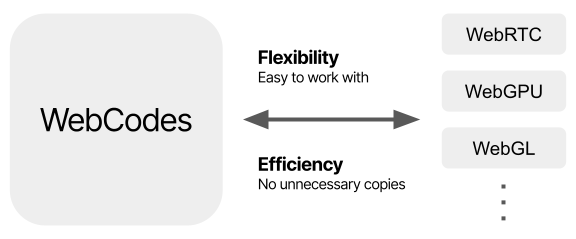
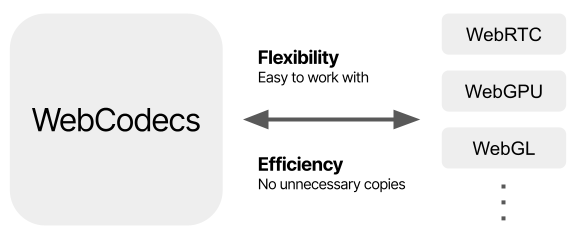
Update pictures and reword a little bit

Changed region(s): [[0.0312, 0.4393, 0.3438, 0.5565]]

diff --git a/_posts/2023-07-24-webcodecs-and-the-future-of-media-processing-on-the-web.md b/_posts/2023-07-24-webcodecs-and-the-future-of-media-processing-on-the-web.md
@@ -73,7 +73,7 @@ In the demo, *WebCodecs* decodes the data from the video file, and we adjust the
 
 Once we integrate *WebCodecs* with *WebGL* and *WebGPU*, or any other graphic APIs, the process can be accelerated by the graphics card, and we will get the images faster.
 
-Again, *WebCodecs* has an interface carrying the image in the video, called `VideoFrame`, that will soon become a processing unit in the *WebRTC* and *WebGL*. As a result, once *WebRTC* can stream the video coming from your camera **frame by frame**, we can easily send them to *WebGL* to process.
+Again, *WebCodecs* has an interface carrying the image in the video, called `VideoFrame`, that will soon become a processing unit in the *WebRTC* and *WebGL*. As a result, once *WebRTC* can stream the video coming from your camera **in VideoFrame**s, we can easily send them to *WebGL* to process.
 
 ![webrtc-video-processing][webrtc-video-processing]
 
